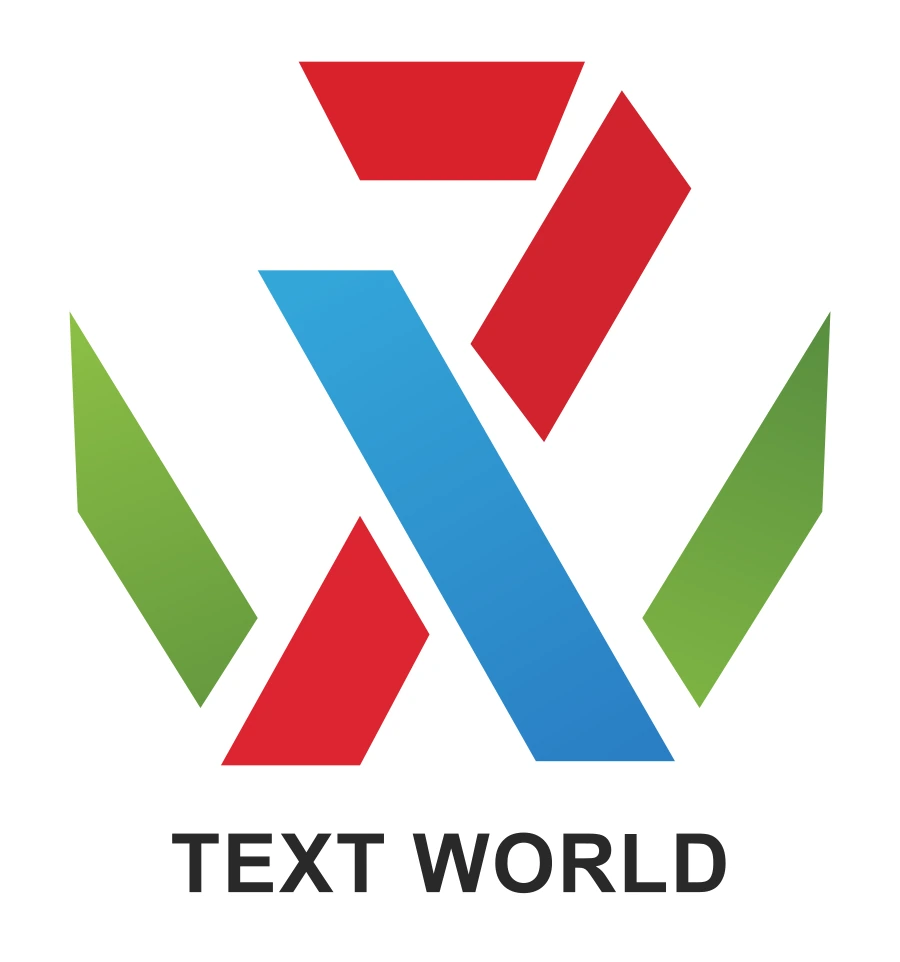
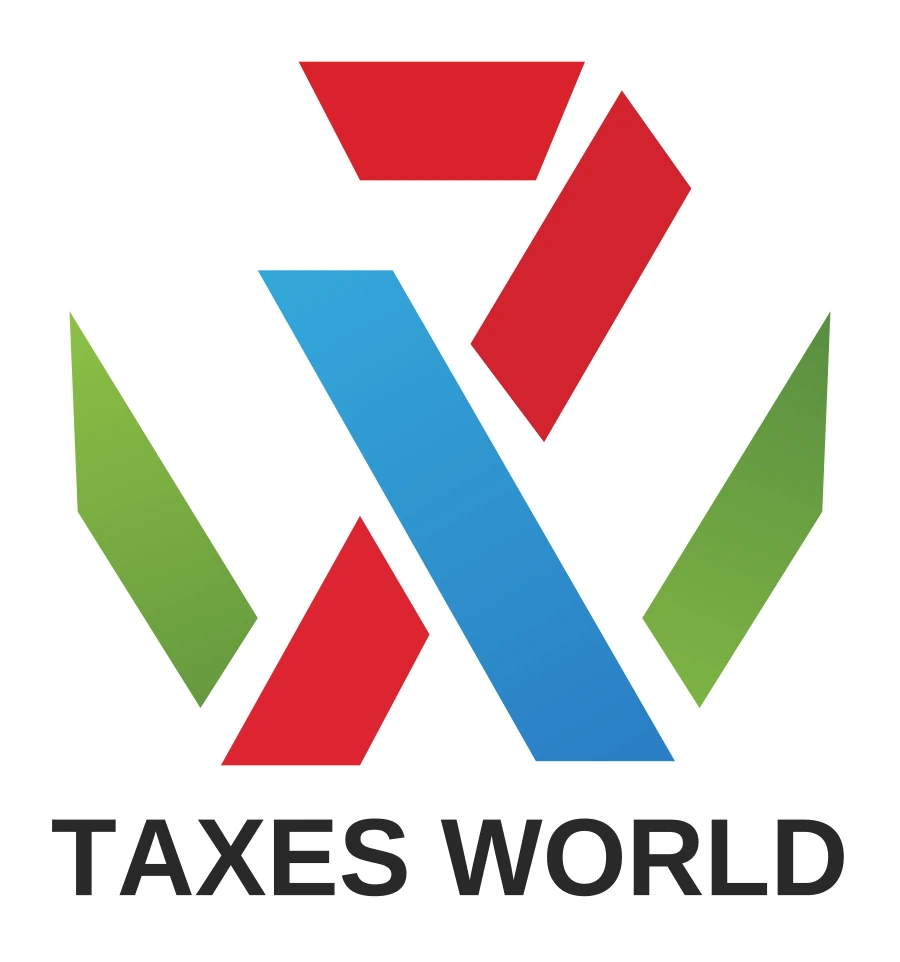
fix

Changed region(s): [[0.0622, 0.842, 0.9644, 0.9356]]

diff --git a/docs/business/site-map.md b/docs/business/site-map.md
@@ -12,7 +12,7 @@
 | Knowledge `/knowledge` | `KnowledgeHubView` — category tabs + article cards |
 | Knowledge article `/knowledge/:slug` | `KnowledgeArticleView` — article body, dates, related cards (no sidebar) |
 | Clients `/clients` | `ClientsView` — featured client cards (logo, name, industry). No public client-count claim. |
-| Partners `/partners` | `PartnersView` — stacked cards (FEDIS, Tawqe3y, MTS, Text World, plus certified accountant offices). Visit-site CTA only when a partner has a URL. |
+| Partners `/partners` | `PartnersView` — stacked cards (FEDIS, Tawqe3y, MTS, TAXES WORLD, plus certified accountant offices). Visit-site CTA only when a partner has a URL. |
 | 404 | `NotFoundView` |
 | Contact `/contact` | `ContactView` — form to `sales@dts-eg.com`; mailto is shown only if FormSubmit fails |
 | Chrome | `AppLoader` + `MainLayout` (`SiteBackground`, `AppHeader` with mobile menu at header end and side drawer from the same side, `AppFooter`) + `WhatsAppFloat` |

diff --git a/docs/architecture/structure.md b/docs/architecture/structure.md
@@ -38,7 +38,7 @@ src/
     products.js           # ESS / ERS / ESA catalog + gallery paths
     services.js           # services catalog + icon paths
     clients.js            # featured clients catalog + logo paths
-    partners.js           # FEDIS / Tawqe3y / MTS / Text World + legal accountant offices
+    partners.js           # FEDIS / Tawqe3y / MTS / TAXES WORLD + legal accountant offices
     seo.js               # per-route title, description, canonical path
     knowledge.generated.js # built from content/knowledge
   composables/
